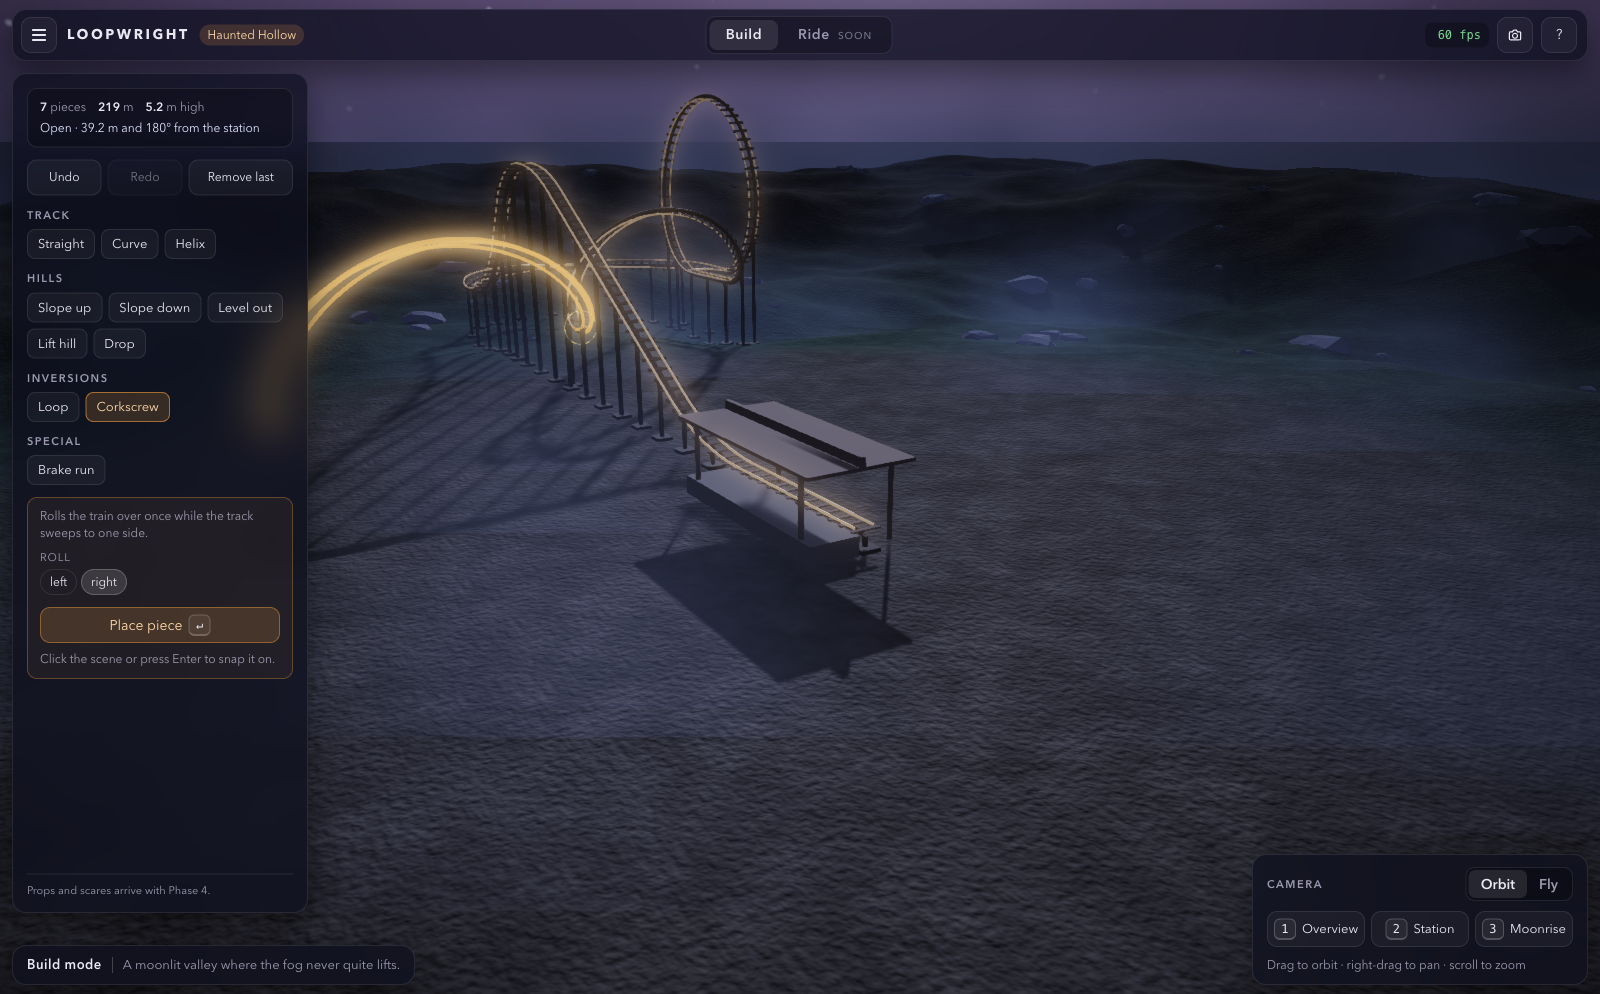
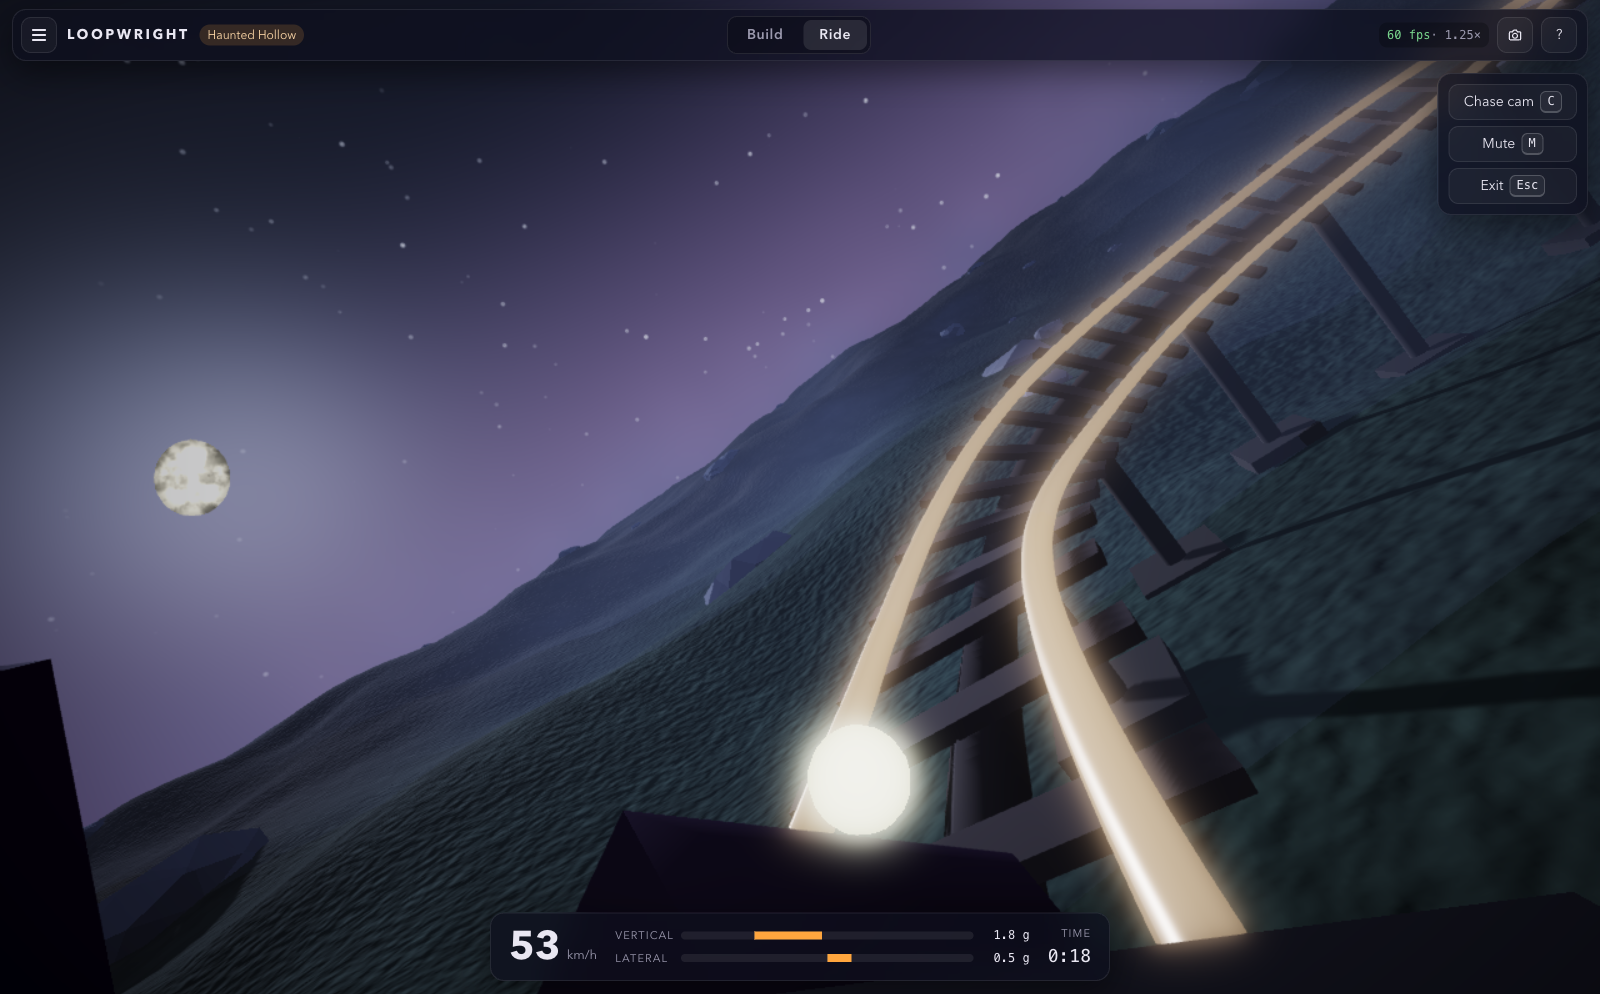
docs: Phase 3 controls, layout, roadmap and ride screenshot
Claude-Session: https://claude.ai/code/session_0125idn87E2x3R6RcrmpKT1h

diff --git a/README.md b/README.md
@@ -49,11 +49,12 @@ npm run format   # Prettier write
 | -------- | -------------------------------------------------------------------------------------------------- |
 | Build    | pick a piece in the palette, `Enter` or click the scene to snap it on, `Backspace` remove last     |
 | Build    | `Ctrl`/`Cmd+Z` undo, `Shift+Ctrl`/`Cmd+Z` redo, `4` fly to the track end, `Esc` drop the selection |
+| Ride     | `Space` dispatch the train, `C` switch seat and chase camera, `Esc` back to build mode             |
 | Orbit    | drag to orbit, right-drag to pan, scroll to zoom, `1` `2` `3` fly to presets                       |
 | Fly      | `F` to toggle, click to capture the mouse, `WASD` move, `Q`/`E` down/up, `Shift` hurry             |
-| Anywhere | `P` save a photo, `?` or `H` shortcuts                                                             |
+| Anywhere | `P` save a photo, `M` mute, `?` or `H` shortcuts                                                   |
 
-Ride shortcuts (start, camera switch) and prop controls (rotate, delete) arrive with those phases.
+Prop controls (rotate, delete) arrive with Phase 4.
 
 ## Project layout
 
@@ -61,6 +62,9 @@ Ride shortcuts (start, camera switch) and prop controls (rotate, delete) arrive 
 src/engine/scene/   terrain, sky, lighting, fog, performance governor
 src/engine/track/   pieces, pose cursor, spline, frames, track model, rail and support meshes
 src/engine/build/   build controller and command stack (undo/redo)
+src/engine/ride/    energy physics, validation sim, train, ride controller, markers
+src/engine/camera/  orbit, fly, seat and chase cameras
+src/engine/audio/   Web Audio synths for wind, rumble and the chain lift
 src/engine/theme/   theme configs (Haunted Hollow)
 src/ui/             Svelte 5 HUD, state and the single bridge module that talks to the engine
 ```
@@ -70,9 +74,11 @@ save format are pure TypeScript so they run under Vitest without a browser.
 
 ## Status
 
-Phases 1 and 2 of 5 are complete: the night park, cameras and HUD, then track building with
-twelve piece types, snapping, ghost preview, undo and redo, supports and circuit closure. See
-[ROADMAP.md](ROADMAP.md) for what comes next and what is deferred.
+Phases 1 to 3 of 5 are complete: the night park, cameras and HUD; track building with twelve
+piece types, snapping, ghost preview, undo and redo, supports and circuit closure; and ride mode
+with energy physics, a four-car train, seat and chase cameras, speed and g readouts, a validation
+sim with marked stall points, and synthesised wind and rumble. See [ROADMAP.md](ROADMAP.md) for
+what comes next and what is deferred.
 
 ## License
 

diff --git a/ROADMAP.md b/ROADMAP.md
@@ -1,20 +1,8 @@
 # Roadmap
 
-Phases 1 (scaffold, night park, cameras, HUD shell) and 2 (track building) are done. Each later
-phase ends with lint, tests and build green, a commit, and a note on what to look at in the browser.
-
-## Phase 3: ride mode
-
-- Energy physics: gravity along the tangent averaged over the cars, rolling resistance, air drag,
-  chain lift speed floor, brake and station decel
-- Four-car train mesh following the frames
-- Seat camera with smoothed up vector and speed-scaled head bob; orbit chase camera
-- Speed and vertical/lateral g readouts on the HUD
-- `Space` start, `C` switch camera, `Esc` exit
-- Validation sim from a standing start with red stall markers and reasons, open-circuit marker,
-  lateral-g warnings
-- Web Audio engine with wind and rumble whose pitch follows speed
-- Tests: integrator, stall detection
+Phases 1 (scaffold, night park, cameras, HUD shell), 2 (track building) and 3 (ride mode) are
+done. Each later phase ends with lint, tests and build green, a commit, and a note on what to look at
+in the browser.
 
 ## Phase 4: Haunted Hollow complete
 
@@ -57,6 +45,16 @@ phase ends with lint, tests and build green, a commit, and a note on what to loo
 - Creatures: a tracker drone that follows the train, a sweeper beam across the track
 - Scares: beam sweep, drone dive, crystal shatter
 - Sound: synth pads, radio chatter, beam hum
+
+## Deferred from Phase 3
+
+- Per-car physics (each car's own slope) instead of the mean slope over the train
+- Clothoid loop and drop profiles to bring entry pull-out under 5 g
+- Validation runs synchronously on every change; move it to a worker for very long tracks
+- Block brakes and a second train
+- Camera shake and a lap-time board; photo mode during the ride
+- Audio: Doppler on scares, per-wheel clack timing from tie spacing, a settings slider for volume
+- A rollback-friendly stall display: show the train settling in the valley instead of freezing the hint
 
 ## Deferred from Phase 2
 
